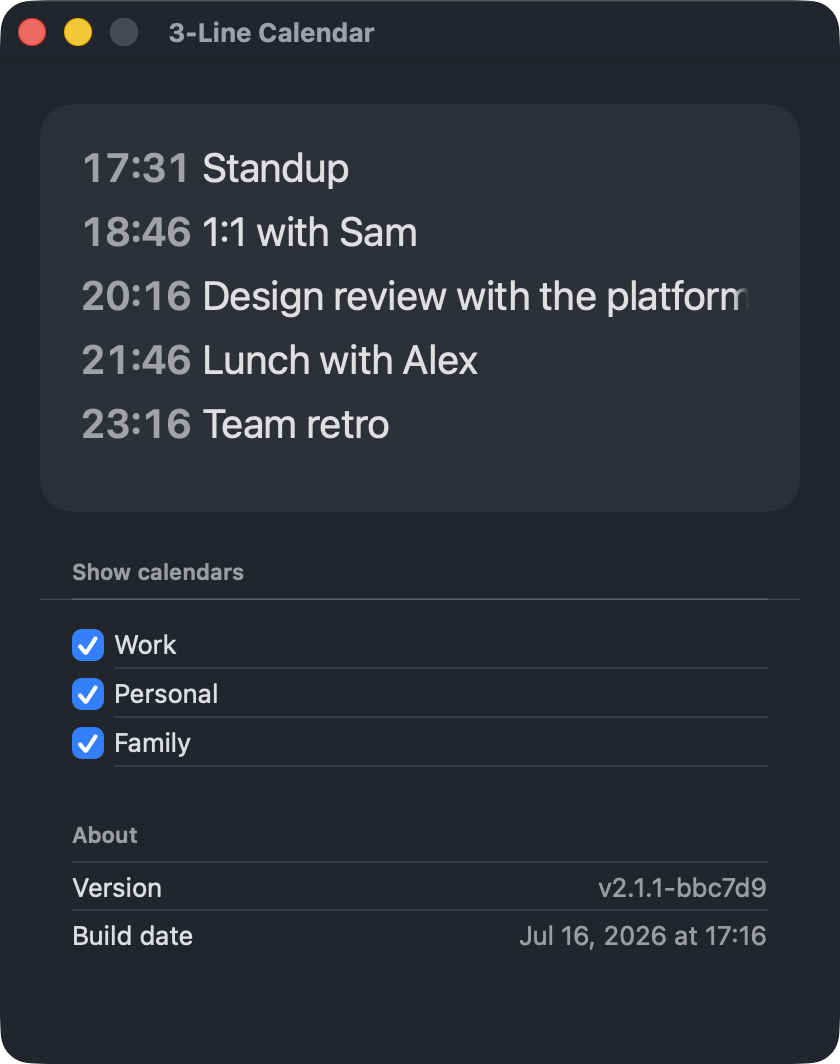
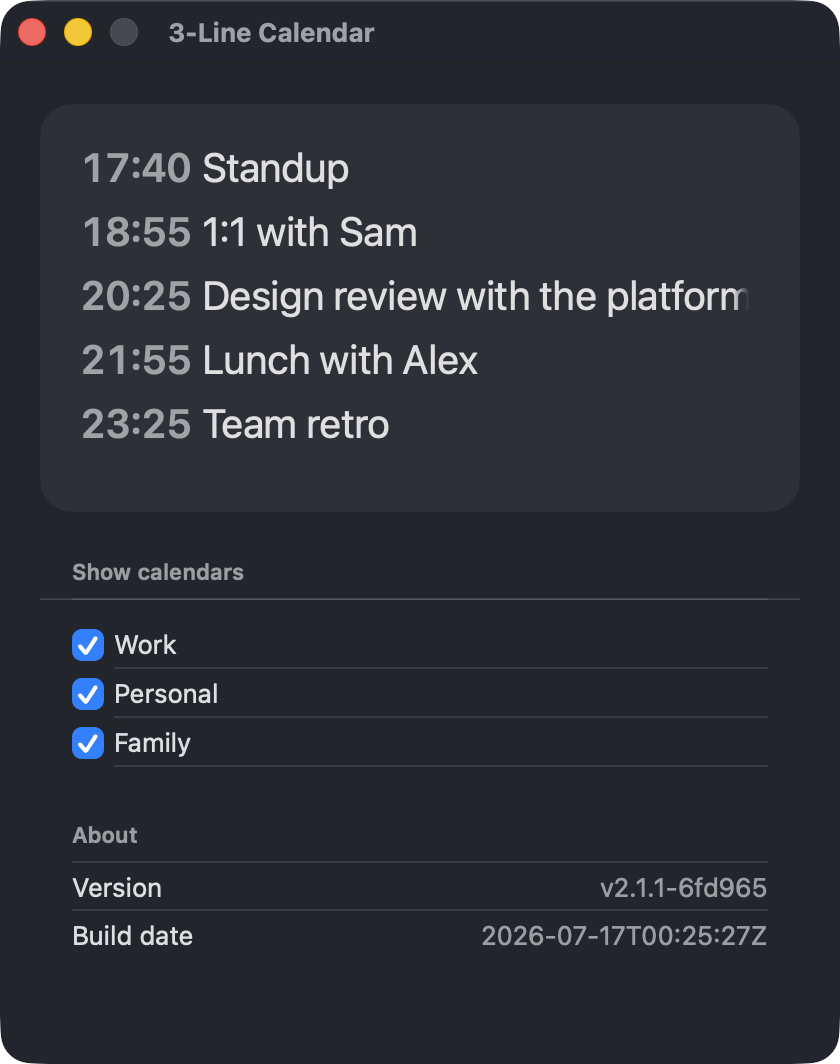
about: show build date as ISO 8601 (UTC), exactly as stamped

Changed region(s): [[0.5571, 0.8064, 0.9286, 0.8994], [0.1548, 0.1241, 0.2476, 0.4342]]

diff --git a/Shared/SettingsView.swift b/Shared/SettingsView.swift
@@ -64,8 +64,7 @@ struct SettingsView: View {
 
             Section("About") {
                 aboutRow("Version", BuildInfo.versionString)
-                aboutRow("Build date",
-                         BuildInfo.buildDate?.formatted(date: .abbreviated, time: .shortened) ?? "—")
+                aboutRow("Build date", BuildInfo.buildDateISO ?? "—")
             }
         }
     }

diff --git a/Shared/BuildInfo.swift b/Shared/BuildInfo.swift
@@ -20,7 +20,8 @@ enum BuildInfo {
         return "v\(v)-\(info["GitCommit"] ?? "dev")"
     }
 
-    static var buildDate: Date? {
-        info["BuildDate"].flatMap { ISO8601DateFormatter().date(from: $0) }
+    /// ISO 8601 UTC, exactly as the build phase stamped it (e.g. "2026-07-17T00:14:35Z").
+    static var buildDateISO: String? {
+        info["BuildDate"]
     }
 }
